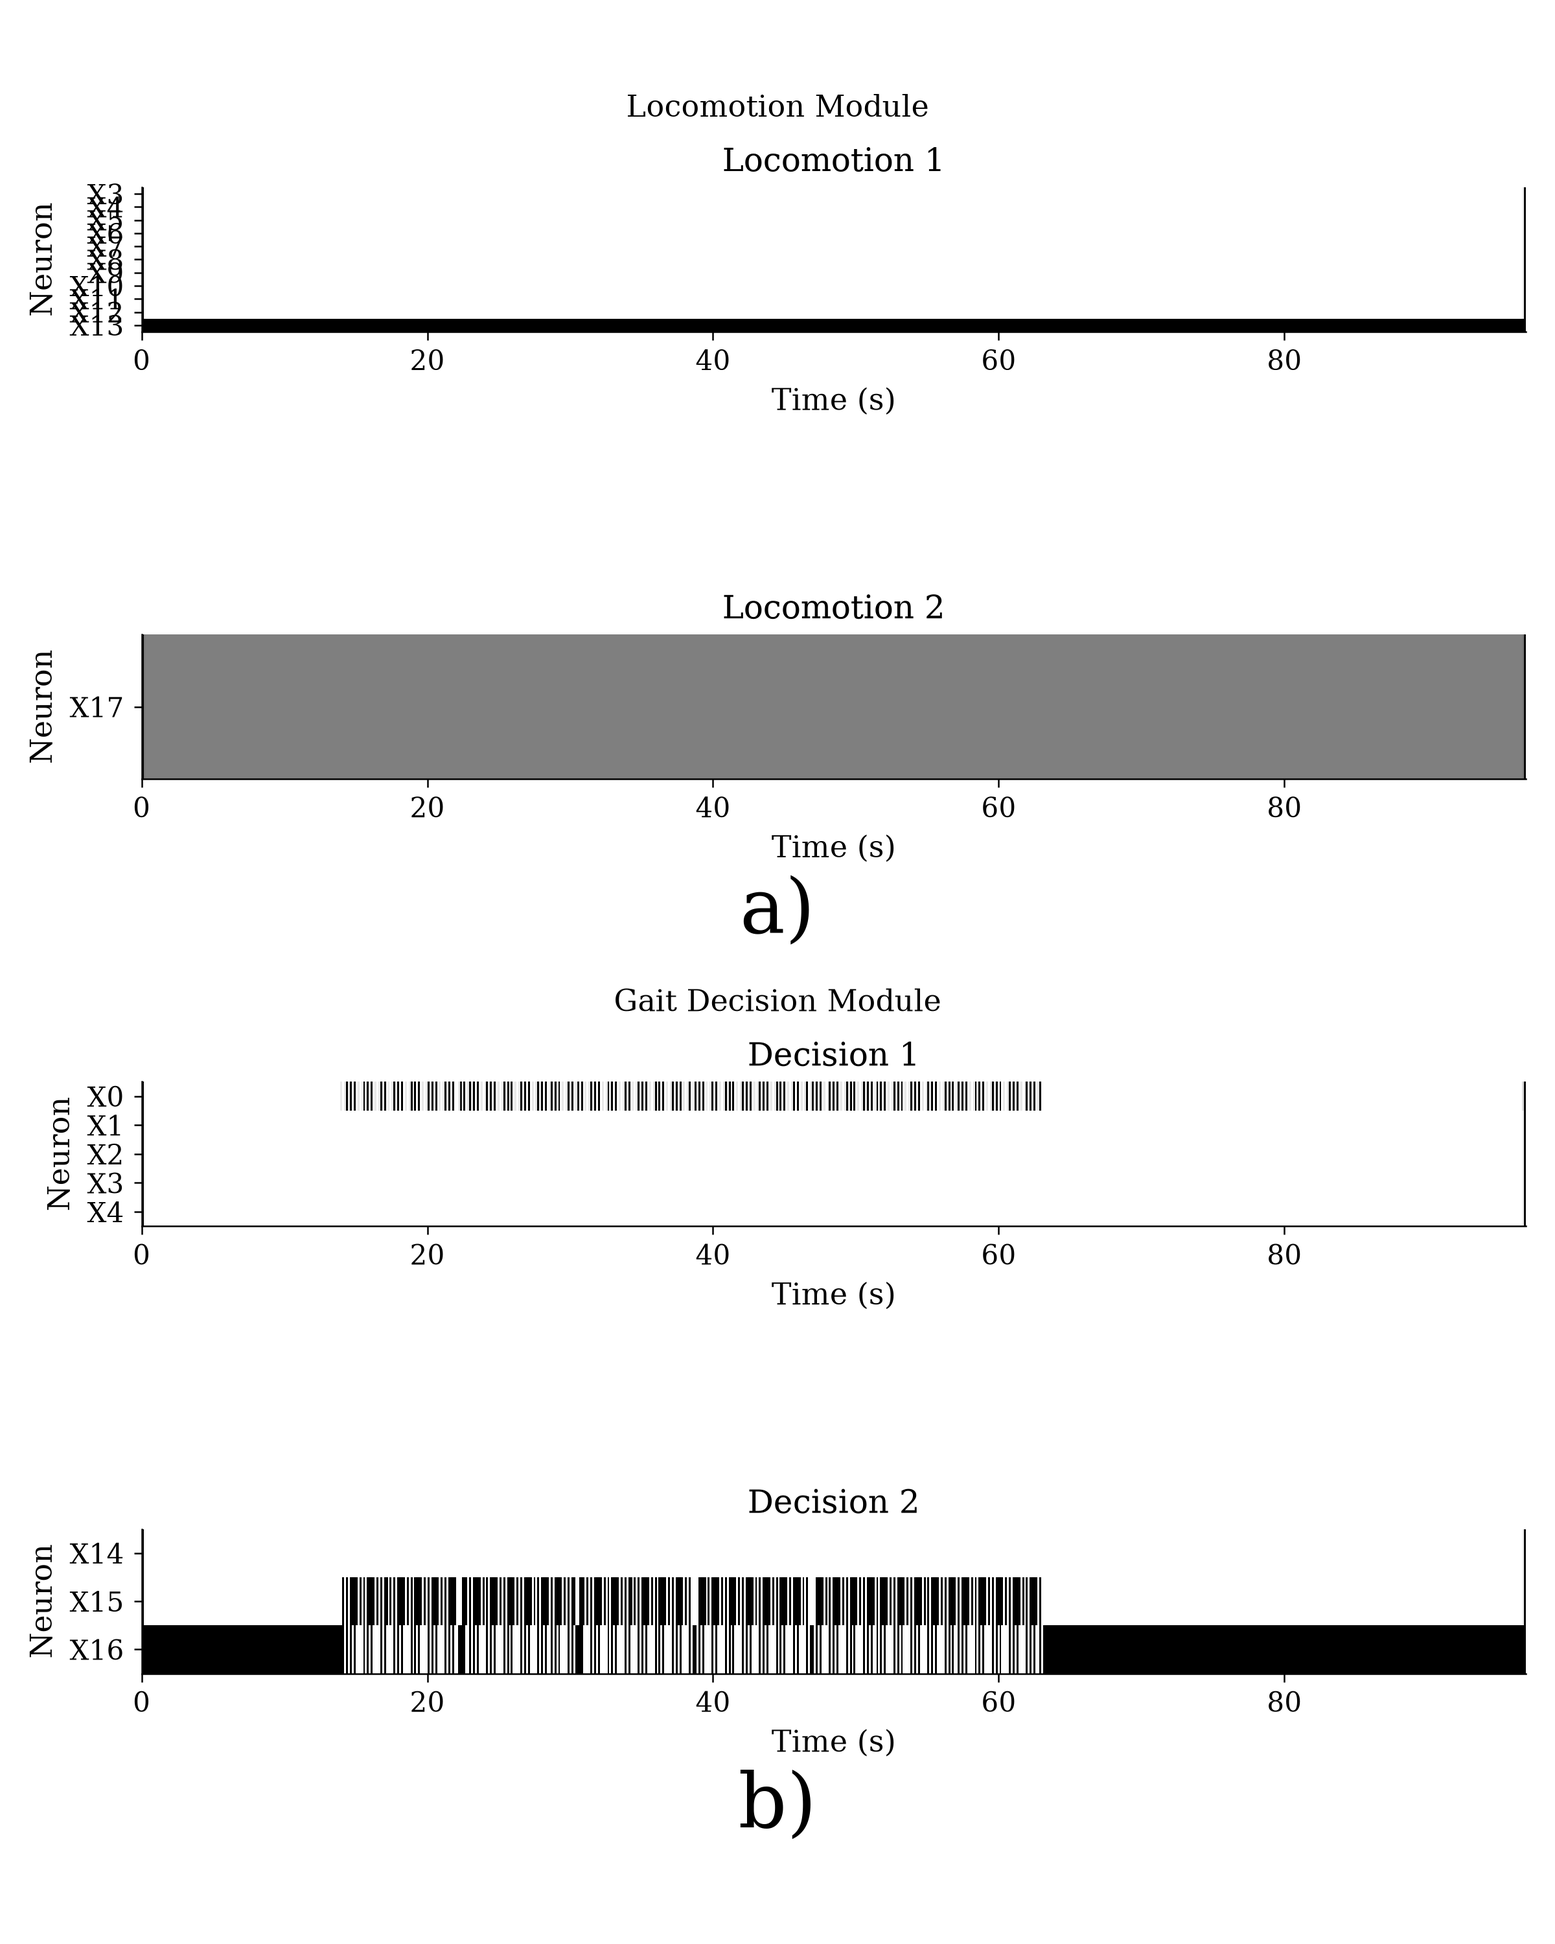
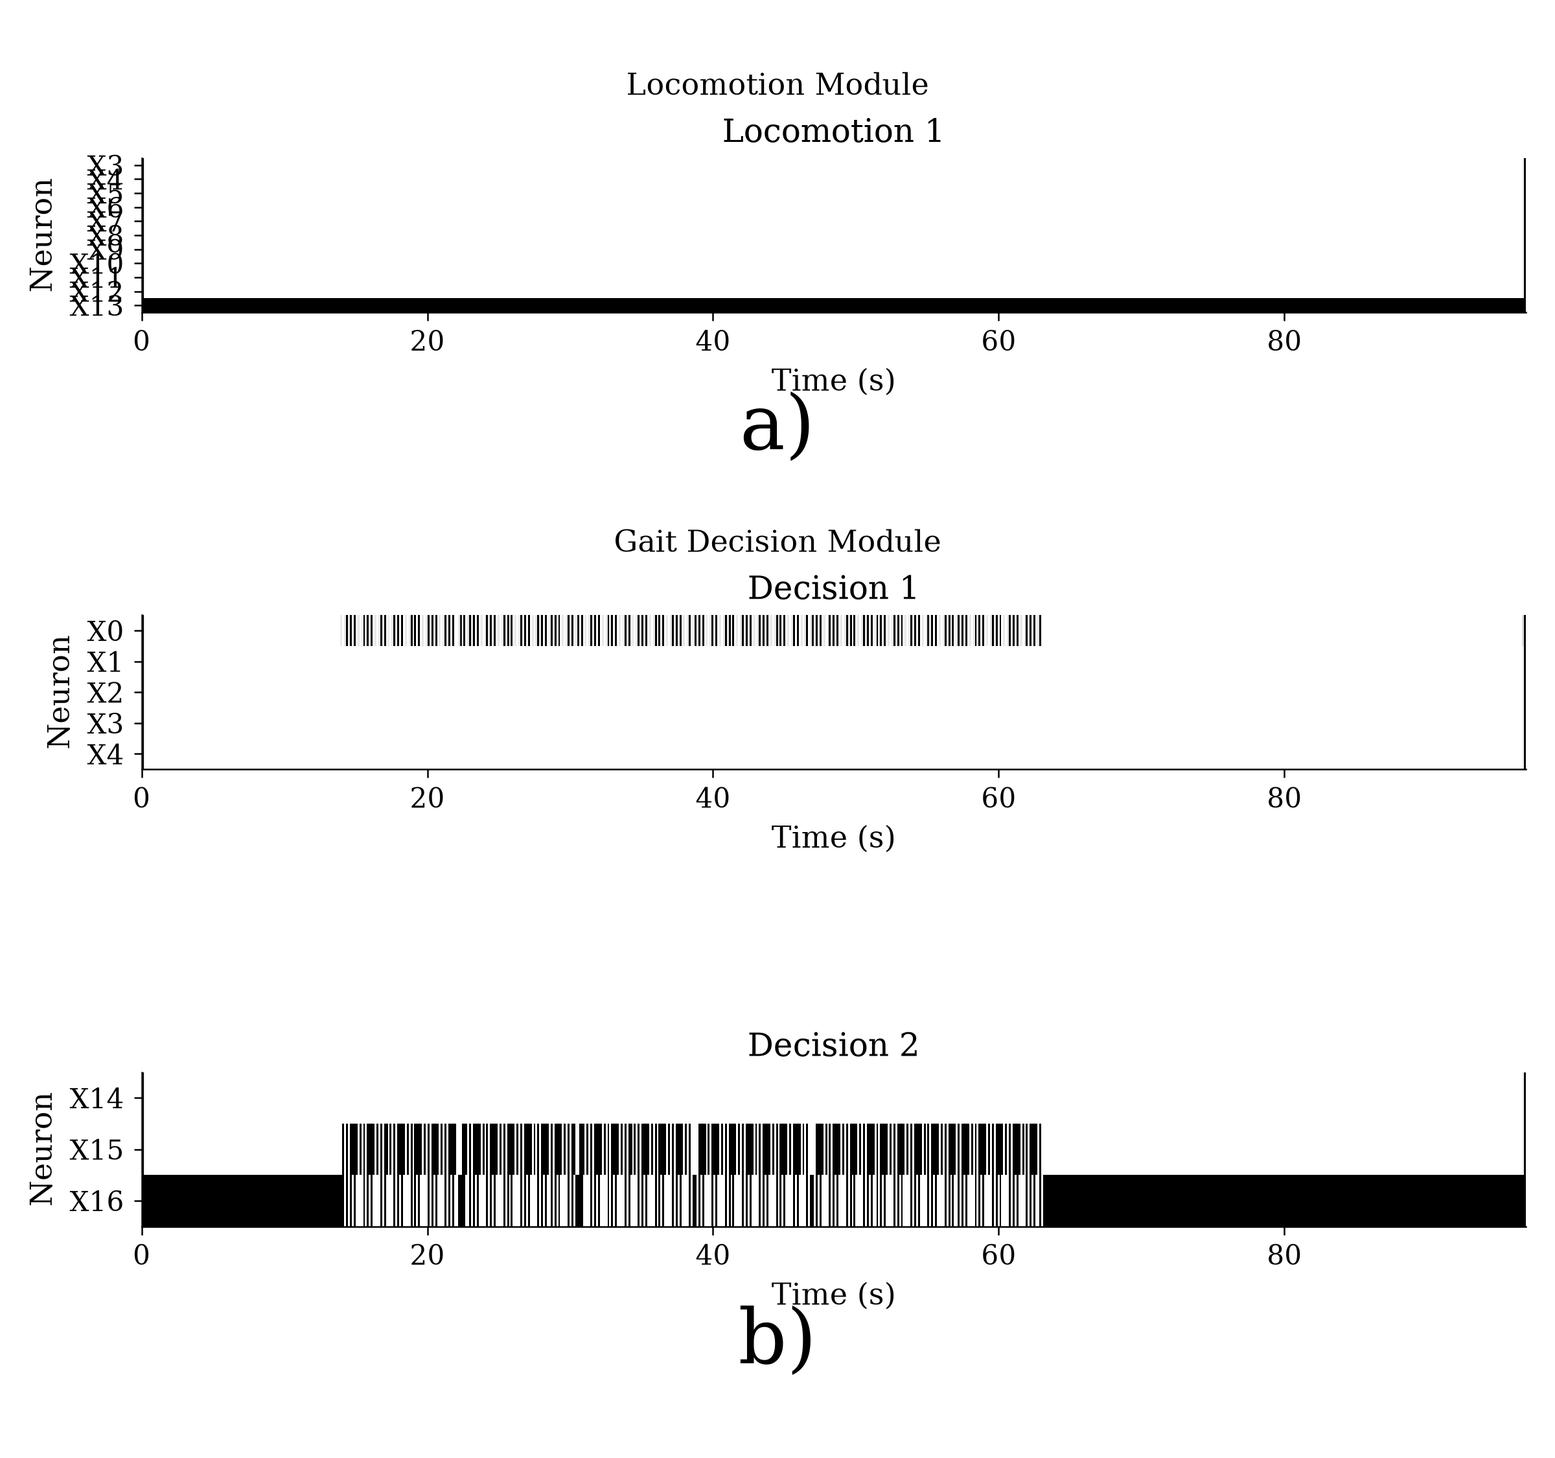
patch: C-53 -- drop NEU_IMU/NEU_IMU2's uninformative "Locomotion 2" panel
Per redundancy_closing_audit_consolidation_2026-09-02.md's [FIG-X17]
finding, surfaced during the figures anexo review. Neuron X17
(NEU_IMU/NEU_IMU2's sole "Locomotion 2" panel) was suspected inactive
by visual inspection -- checked against the underlying vectorized CSVs
before touching anything: X17 is actually tonically active
near-constant (0.502-1.0, mean 0.503, 731 samples), not silent.
Corrected that premise to the author before acting; decision with the
corrected fact was to drop the panel anyway (no interpretable temporal
variation for the reader).

- imu_terrain_real.py::build_neu_imu() gained an optional `panels` param
  (default unchanged -- NEU_IMU_real/NEU_IMU2_real untouched); group
  title/letter placement now derives axes boundaries from the actual
  panel list instead of hardcoded indices.
- regenerate_neu_panels.py's NEU_IMU/NEU_IMU2 calls now drop
  Locomotion_2.
- Re-ran the full regeneration script: NEU_EST_UNIB/UNIG/MUL.png came
  back byte-identical to the promoted assets (cmp-verified), confirming
  no side effect on the other 3 figures.
- Visually verified both new 3-panel images before promoting
  (scripts/promote_figure.sh --force); compile_pdf.sh re-run clean,
  rendered page (55) visually confirmed to match.
- No results.tex prose references X17/"Locomotion 2" by name (grep
  confirmed) -- no caption/prose rewording needed.

validate_tex.sh / check_roundtrip.sh pass (no sections/*.tex text
changed by this patch).
[…]

diff --git a/experiments/_plotting/builders/imu_terrain_real.py b/experiments/_plotting/builders/imu_terrain_real.py
@@ -59,19 +59,34 @@ def build_graph_imu(csv_path: str, output_path: str, title_suffix: str) -> None:
     plt.close(fig)
 
 
-def build_neu_imu(csv_path: str, output_path: str, group_letters: dict[str, str] | None = None) -> None:
+def build_neu_imu(csv_path: str, output_path: str, group_letters: dict[str, str] | None = None,
+                   panels: list[str] | None = None) -> None:
     """group_letters (optional): {"Locomotion_1": "a", "Decision_1": "b"} -- draws that letter,
     matplotlib-figure-text style (see build_neu_est's docstring), centered below the
     corresponding group. Omit to reproduce the old (letter-less) behavior unchanged -- e.g. the
     already-published _real outputs in __main__ below, which this function still generates as-is
     unless a future patch decides to also add letters there (see R02-01-05 §0ter: the same
-    missing-letter defect already exists in NEU_IMU_real/NEU_IMU2_real, out of scope for this fix)."""
+    missing-letter defect already exists in NEU_IMU_real/NEU_IMU2_real, out of scope for this fix).
+
+    panels (optional): override the default 4-panel layout
+    ["Locomotion_1", "Locomotion_2", "Decision_1", "Decision_2"] -- e.g. to drop a panel that
+    carries no interpretable temporal information (C-53: NEU_IMU/NEU_IMU2's "Locomotion_2",
+    neuron X17, found to be tonically active near-constant ~0.5 the whole trial, not silent as
+    initially assumed -- verified against this same CSV before dropping it). Group boundaries
+    (which panels belong under "Locomotion Module" vs. "Gait Decision Module", and which panel's
+    axes the group title/letter anchor to) are derived from the panel list itself, not
+    hardcoded indices, so this works for any subset as long as each panel name still starts with
+    "Locomotion" or "Decision". The already-published NEU_IMU_real/NEU_IMU2_real call sites below
+    don't pass this, so their 4-panel layout is unchanged."""
     df = pd.read_csv(csv_path)
-    panels = ["Locomotion_1", "Locomotion_2", "Decision_1", "Decision_2"]
+    panels = panels or ["Locomotion_1", "Locomotion_2", "Decision_1", "Decision_2"]
     titles = {"Locomotion_1": "Locomotion 1", "Locomotion_2": "Locomotion 2",
               "Decision_1": "Decision 1", "Decision_2": "Decision 2"}
     group_letters = group_letters or {}
-    fig, axes = plt.subplots(4, 1, figsize=(8, 10))
+    locomotion_panels = [p for p in panels if p.startswith("Locomotion")]
+    decision_panels = [p for p in panels if p.startswith("Decision")]
+    fig, axes_arr = plt.subplots(len(panels), 1, figsize=(8, 2.5 * len(panels)))
+    axes = list(np.atleast_1d(axes_arr))
     for ax, p in zip(axes, panels):
         sub = df[df.panel == p]
         neurons = list(sub["neuron"].unique())
@@ -85,30 +100,37 @@ def build_neu_imu(csv_path: str, output_path: str, group_letters: dict[str, str]
         ax.set_xlabel("Time (s)")
         ax.set_ylabel("Neuron")
         ax.set_title(titles[p])
-    # Two group titles matching the original figure's layout (Locomotion Module above panels
-    # 0-1, Gait Decision Module above panels 2-3) instead of one combined suptitle. Positioned
-    # from each group's first axes' own rendered title, not a fixed fraction -- a fixed fraction
-    # (the original approach) collides with the letter below it once `bottom` reserves extra
-    # vertical space for group_letters (see R02-01-05 §0ter: this collision was found and fixed
-    # while restoring the a)/b) letters).
+    # Group axes indices derived from the actual panel list, not hardcoded -- works whether each
+    # group has 1 or 2 panels.
+    locomotion_axes = axes[:len(locomotion_panels)]
+    decision_axes = axes[len(locomotion_panels):len(locomotion_panels) + len(decision_panels)]
+    # Two group titles matching the original figure's layout (Locomotion Module above the
+    # locomotion panels, Gait Decision Module above the decision panels) instead of one combined
+    # suptitle. Positioned from each group's first axes' own rendered title, not a fixed fraction
+    # -- a fixed fraction (the original approach) collides with the letter below it once `bottom`
+    # reserves extra vertical space for group_letters (see R02-01-05 §0ter: this collision was
+    # found and fixed while restoring the a)/b) letters).
     bottom = 0.08 if group_letters else 0.0
     h_pad = 6.5 if group_letters else 3.5  # extra room for the letter *and* the next group's
-    # title to both fit in the gap between Locomotion_2's xlabel and Decision_1's title.
+    # title to both fit in the gap between the locomotion group's last xlabel and the decision
+    # group's first title.
     fig.tight_layout(rect=(0, bottom, 1, 0.94), h_pad=h_pad)
     if group_letters:
-        _place_group_title_above(fig, axes[0], "Locomotion Module")
-        _place_group_title_above(fig, axes[2], "Gait Decision Module")
+        if locomotion_axes:
+            _place_group_title_above(fig, locomotion_axes[0], "Locomotion Module")
+        if decision_axes:
+            _place_group_title_above(fig, decision_axes[0], "Gait Decision Module")
     else:
-        # Original fixed positions, kept byte-for-byte unchanged for the no-letters case (the
-        # already-published NEU_IMU_real/NEU_IMU2_real in __main__ below use this path).
+        # Original fixed positions, kept byte-for-byte unchanged for the no-letters, full-4-panel
+        # case (the already-published NEU_IMU_real/NEU_IMU2_real in __main__ below use this path).
         fig.text(0.5, 0.975, "Locomotion Module", ha="center", fontsize=11)
         fig.text(0.5, 0.475, "Gait Decision Module", ha="center", fontsize=11)
-    # axes[1]/axes[3] = each group's last axes (Locomotion_2, Decision_2) -- letter goes below
-    # that axes' "Time (s)" label, not just below the axes box itself.
-    if "Locomotion_1" in group_letters:
-        _place_group_letter(fig, axes[1], group_letters["Locomotion_1"])
-    if "Decision_1" in group_letters:
-        _place_group_letter(fig, axes[3], group_letters["Decision_1"])
+    # Letter goes below each group's *last* axes' "Time (s)" label, not just below the axes box
+    # itself.
+    if "Locomotion_1" in group_letters and locomotion_axes:
+        _place_group_letter(fig, locomotion_axes[-1], group_letters["Locomotion_1"])
+    if "Decision_1" in group_letters and decision_axes:
+        _place_group_letter(fig, decision_axes[-1], group_letters["Decision_1"])
     os.makedirs(os.path.dirname(output_path), exist_ok=True)
     fig.savefig(output_path, dpi=DPI)
     plt.close(fig)

diff --git a/patches/c-53-neu-imu-drop-locomotion2-panel.tex b/patches/c-53-neu-imu-drop-locomotion2-panel.tex
@@ -1,0 +1,34 @@
+% C-53 -- NEU_IMU/NEU_IMU2 "Locomotion 2" panel removal (redundancy_closing_audit_consolidation_2026-09-02.md, [FIG-X17])
+% Audit copy only -- no sections/*.tex text changed by this patch (image regeneration only). No
+% \revblue{} applicable since no prose changed.
+%
+% Origin: surfaced while the author reviewed the current NEU_IMU/NEU_IMU2 images sent for the
+% Group-2 figure-merge decision (figure_regeneration_candidates.md, FIG-2a, declined). Initial
+% premise ("neuron X17 never fires") was checked against experiments/_plotting/vectorized/
+% neu_imu.csv and neu_imu2.csv BEFORE any change: X17 is tonically active near-constant
+% (activation_normalized 0.502-1.0, mean 0.503, 731 samples in each CSV), not silent -- corrected
+% to the author before acting. Author decision, with the corrected fact in hand: drop the panel
+% anyway, since it carries no interpretable temporal variation for the reader (a real but
+% deliberate simplification, not a data-error correction).
+%
+% Code changes (not LaTeX -- see git diff for this commit):
+%  - experiments/_plotting/builders/imu_terrain_real.py::build_neu_imu(): added an optional
+%    `panels` parameter (defaults to the original 4-panel list, so NEU_IMU_real/NEU_IMU2_real's
+%    __main__ call sites are byte-for-byte unaffected); group-title/letter placement rewritten to
+%    derive its axes boundaries from the actual panel list passed in, not hardcoded indices, so it
+%    works for a 3-panel (or any) subset.
+%  - experiments/N-01-simulation-figure-regeneration/scripts/regenerate_neu_panels.py: NEU_IMU/
+%    NEU_IMU2 call sites now pass panels=["Locomotion_1", "Decision_1", "Decision_2"].
+%
+% Verification before promoting:
+%  - Re-ran regenerate_neu_panels.py in full; NEU_EST_UNIB/UNIG/MUL.png regenerated byte-identical
+%    to the currently promoted assets (cmp), confirming the other 3 outputs were unaffected.
+%  - Visually inspected both new NEU_IMU.png/NEU_IMU2.png (3 panels, a)/b) letters and group titles
+%    correctly positioned) before scripts/promote_figure.sh --force.
+%  - compile_pdf.sh re-run clean; rendered page (55, fig:NEU_IMU) visually confirmed to match.
+%  - Confirmed via grep that no results.tex prose references X17 or "Locomotion 2" by name -- no
+%    caption/prose rewording needed.
+%
+% assets/NEU_IMU.png and assets/NEU_IMU2.png replaced in place (same filenames, same
+% \includegraphics calls in sections/results.tex -- no LaTeX edit needed, hence no diff block
+% below).

diff --git a/experiments/N-01-simulation-figure-regeneration/scripts/regenerate_neu_panels.py b/experiments/N-01-simulation-figure-regeneration/scripts/regenerate_neu_panels.py
@@ -65,10 +65,16 @@ def main():
         group_letters={"BasalGanglia_GPi": "a", "Lidar": "b", "Locomotion_1": "c", "Decision_1": "d"},
     )
 
+    # C-53: "Locomotion_2" (neuron X17) dropped from both panels below -- verified against this
+    # same CSV that X17 is tonically active near-constant ~0.5 the whole trial (not silent), but
+    # carries no interpretable temporal variation for the reader. See
+    # redundancy_closing_audit_consolidation_2026-09-02.md, finding [FIG-X17].
     build_neu_imu(f"{VEC}/neu_imu.csv", f"{OUT}/NEU_IMU.png",
-                   group_letters={"Locomotion_1": "a", "Decision_1": "b"})
+                   group_letters={"Locomotion_1": "a", "Decision_1": "b"},
+                   panels=["Locomotion_1", "Decision_1", "Decision_2"])
     build_neu_imu(f"{VEC}/neu_imu2.csv", f"{OUT}/NEU_IMU2.png",
-                   group_letters={"Locomotion_1": "a", "Decision_1": "b"})
+                   group_letters={"Locomotion_1": "a", "Decision_1": "b"},
+                   panels=["Locomotion_1", "Decision_1", "Decision_2"])
 
     print(f"Wrote NEU_EST_UNIB/UNIG/MUL.png and NEU_IMU/NEU_IMU2.png to {OUT}")
 

diff --git a/PROGRESS.md b/PROGRESS.md
@@ -88,6 +88,7 @@ both directly from this table, so keep them current when reassigning or picking 
 | C-50 | — | Same consolidation, P-21 + P-22 — Deivi's original pass found 9 British-spelling instances; Diego's audit amplified to >25 across 18 lines and explicitly recommended a single dedicated normalization pass instead of 25+ individual `C-xx` rows. Ran a full regex sweep (not limited to Diego's list) and found 36 tokens total, including several categories neither author had flagged: capitalized "Normalised Stability Margin" (4×, missed by simple lowercase-only matching), "characterisation", "stabilise", "visualise", "labelled"→"labeled", "manoeuvre"/"manoeuvres"→"maneuver"/"maneuvers" (2×), and "Centre of Mass" (`results.tex`) normalized to match `methodology.tex`'s existing lowercase "center of mass". Also folded in Sebas's "bioinspired"→"bio-inspired" (P-22) as the same category of normalization pass, per his own recommendation. Verified with a second broad sweep (explicit checks for `modelled`/`travelled`/`grey`/`programme`/`defence`/`practise`/`licence`/`fibre`/`litre`/`theatre`/`honour`/`neighbour`/`realise`/`recognise`/`emphasise`/`utilise`/`catalogue`/`dialogue`/`mould`) before closing — none found. `validate_tex.sh`/`check_roundtrip.sh` pass. | sections/*.tex (36 tokens, almost entirely `results.tex`) | — | Escritura | Deivi | applied | `patches/c-50-british-american-spelling-sweep.tex` |
 | C-51 | — | Same consolidation, P-23 — new finding from Sebas. `results.tex` had "...differential rolling mode-this mode remains active..." missing punctuation between "mode" and "this" (likely a lost em-dash from editing). Fixed with a semicolon. `validate_tex.sh`/`check_roundtrip.sh` pass. | results.tex (physical variable-topography discussion) | — | Escritura | Deivi | applied | `patches/c-51-mode-this-punctuation.tex` |
 | C-52 | — | Same consolidation, P-25 — confirmed by Samuel and Diego. `closing.tex`'s `% [CHANGE: bibliography file renamed from persbiblio to references]` is a repository process artifact with no meaning to a co-author reading the `.tex` source without commit history — same principle as README §11.1, though technically in a comment. Removed the line. `validate_tex.sh`/`check_roundtrip.sh` pass. | closing.tex (bibliography preamble) | — | Escritura | Deivi | applied | `patches/c-52-closing-dev-comment.tex` |
+| C-53 | — | Same consolidation, finding `[FIG-X17]` (surfaced during the figures anexo review, not part of the original 29-item list). `NEU_IMU`/`NEU_IMU2`'s "Locomotion 2" panel (neuron $X_{17}$) was suspected inactive — checked against `experiments/_plotting/vectorized/neu_imu.csv`/`neu_imu2.csv` **before** acting: $X_{17}$ is actually tonically active near-constant (`activation_normalized` 0.502–1.0, mean 0.503, 731 samples), not silent — corrected the premise to the author before any change. Author decision with the corrected fact in hand: drop the panel anyway, no interpretable temporal variation for the reader. Added an optional `panels` param to `experiments/_plotting/builders/imu_terrain_real.py::build_neu_imu()` (default unchanged, so `NEU_IMU_real`/`NEU_IMU2_real` untouched; group-title/letter placement now derives axes boundaries from the panel list itself, not hardcoded indices); `regenerate_neu_panels.py`'s two `NEU_IMU`/`NEU_IMU2` call sites now drop `Locomotion_2`. Re-ran the full script — the other 3 outputs (`NEU_EST_UNIB/UNIG/MUL.png`) regenerated byte-identical to the currently promoted assets (`cmp`), confirming no side effect. Visually verified both new images (3 panels, `a)`/`b)` letters and group titles correctly positioned) before `scripts/promote_figure.sh --force`; `compile_pdf.sh` re-run clean, rendered page (55) visually confirmed. No `results.tex` prose references $X_{17}$/"Locomotion 2" by name (confirmed via `grep`), so no caption/prose rewording needed. | `assets/NEU_IMU.png`, `assets/NEU_IMU2.png` (no `sections/*.tex` text changed) | `experiments/N-01-simulation-figure-regeneration/` | Escritura | Deivi | applied | `patches/c-53-neu-imu-drop-locomotion2-panel.tex` |
 
 ## Coherence-audit note (2026-08-29)
 

diff --git a/experiments/N-01-simulation-figure-regeneration/README.md b/experiments/N-01-simulation-figure-regeneration/README.md
@@ -143,3 +143,24 @@ acted on here.
   a Pitch RMS boundary line + zone labels, criterion resolved directly from the figure's own
   existing caption text). All 3 re-promoted to `assets/` (`--force`, same filenames).
 - `results.tex` validated (`validate_tex.sh`/`check_roundtrip.sh` both pass) after all of the above.
+
+## Update 2026-09-02 (C-53: NEU_IMU/NEU_IMU2 — dropped the "Locomotion 2" panel)
+
+- Per `redundancy_closing_audit_consolidation_2026-09-02.md`'s `[FIG-X17]` finding: `NEU_IMU.png`/
+  `NEU_IMU2.png`'s "Locomotion 2" panel (neuron `X17`) was suspected inactive, but verified against
+  `experiments/_plotting/vectorized/neu_imu.csv`/`neu_imu2.csv` to actually be tonically active
+  near-constant (`activation_normalized` 0.502–1.0, mean 0.503, 731 samples) — not silent, just
+  carrying no interpretable temporal variation for the reader.
+- `experiments/_plotting/builders/imu_terrain_real.py::build_neu_imu()` gained an optional `panels`
+  parameter (default unchanged, so `NEU_IMU_real`/`NEU_IMU2_real` in this same file's `__main__`
+  are untouched); group-title/letter placement now derives its axes boundaries from the actual
+  panel list instead of hardcoded indices, so it works for any panel subset.
+- `regenerate_neu_panels.py`'s two `NEU_IMU`/`NEU_IMU2` call sites now pass
+  `panels=["Locomotion_1", "Decision_1", "Decision_2"]`, dropping `Locomotion_2`. Re-ran the full
+  script — the other 3 outputs (`NEU_EST_UNIB/UNIG/MUL.png`) regenerated byte-identical to the
+  currently promoted assets (confirmed via `cmp`), confirming this change didn't touch them.
+- Both new `output/NEU_IMU.png`/`NEU_IMU2.png` visually verified (3 panels, `a)`/`b)` letters and
+  group titles still correctly positioned) before promoting to `assets/` with `--force`.
+  `compile_pdf.sh` re-run clean; the rendered page (55) visually confirmed to match.
+- No `results.tex` prose references `X17` or "Locomotion 2" by name (confirmed via `grep`), so no
+  caption/prose rewording was needed beyond the image regeneration itself.
